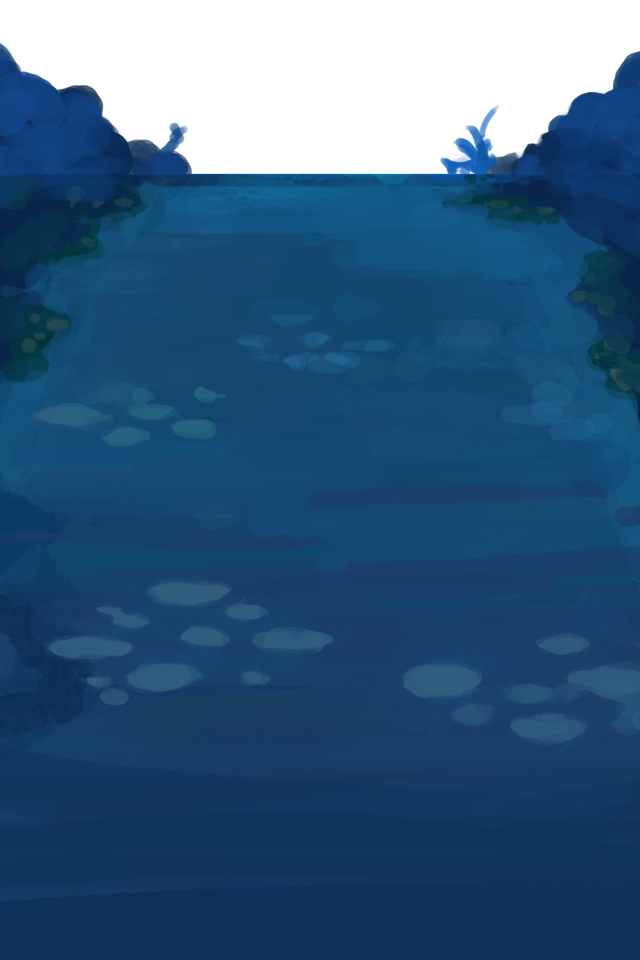
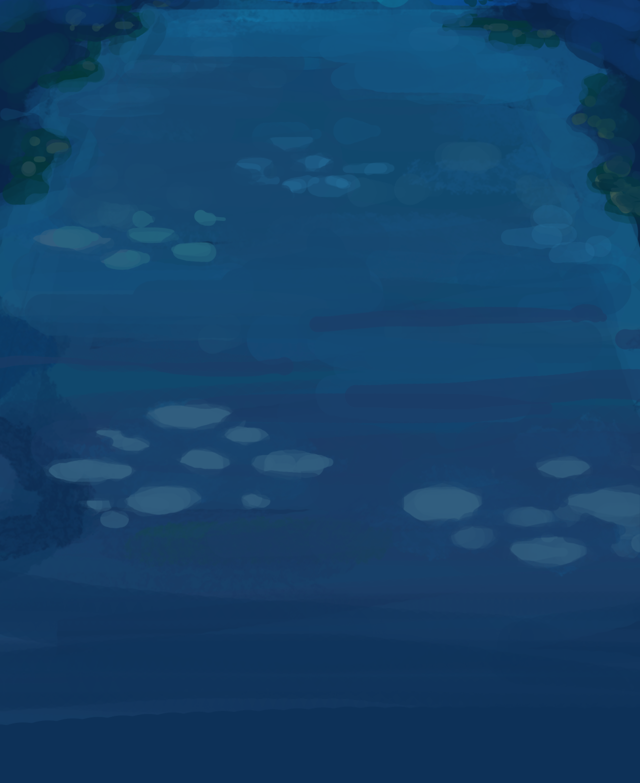
Add moon light effect.

diff --git a/Assets/Scripts/moonMover.cs b/Assets/Scripts/moonMover.cs
@@ -4,17 +4,69 @@ using System.Collections;
 public class moonMover : MonoBehaviour {
 	public float endPosY;
 	public float speed;
+	public float startPosY;
+	public float moonLight, moonLightBack, envLight;
+	public float startWait;
+	public GameObject sceneFar;
+	public GameObject char_0;
+
+	private bool startSpawn = false;
+	private float spawnTime;
+
 	// Use this for initialization
 	void Start () {
-	
+		Vector3 pos = transform.position;
+		pos.y = startPosY;
+		transform.position = pos;
+		spawnTime = (endPosY - startPosY) / speed;
+		Debug.Log(spawnTime);
+		StartCoroutine (SpawnMoon());
+	}
+
+	IEnumerator SpawnMoon ()
+	{
+		yield return new WaitForSeconds (startWait);
+		 
+		startSpawn = true;
+
+		yield return null;
 	}
 	
 	// Update is called once per frame
 	void Update () {
-		if (transform.position.y < endPosY) {
-			Vector3 newPos = transform.position;
-			newPos.y += speed * Time.deltaTime;
-			transform.position = newPos;
+		if (startSpawn)
+		{
+			if (transform.position.y >= endPosY) {
+				startSpawn = false;
+			} else {
+				Vector3 newPos = transform.position;
+				newPos.y += speed * Time.deltaTime;
+				transform.position = newPos;
+				float intensityPerStep = moonLightBack / spawnTime;
+				float opcacityPerStep = 255.0f / spawnTime;
+				float changeRate = moonLight / moonLightBack;
+				float changeRate2 = moonLightBack / envLight;
+				GameObject ml = GameObject.FindGameObjectWithTag("moonlight");
+				GameObject mlb = GameObject.FindGameObjectWithTag("moonlightback");
+				GameObject envl = GameObject.FindGameObjectWithTag("envLight");
+				if (ml.light.intensity < moonLight) {
+					ml.light.intensity += intensityPerStep * Time.deltaTime * changeRate;
+				}
+				if (mlb.light.intensity < moonLightBack) {
+					mlb.light.intensity += intensityPerStep * Time.deltaTime;
+				}
+				if (envl.light.intensity < envLight) {
+					envl.light.intensity += intensityPerStep * Time.deltaTime / changeRate2 ;
+				}
+				SpriteRenderer sp = sceneFar.GetComponent<SpriteRenderer>();
+				Color newColor =  sp.color;
+				newColor.a += (1.0f/255.0f)*opcacityPerStep * Time.deltaTime;
+				Debug.Log(newColor.a);
+				sp.color = newColor;
+
+				sp = char_0.GetComponent<SpriteRenderer>();
+				sp.color = newColor;
+			}
 		}
 	}
 }

diff --git a/Assets/Scripts/gameController.cs b/Assets/Scripts/gameController.cs
@@ -11,7 +11,7 @@ public class gameController : MonoBehaviour {
 	
 	void Start ()
 	{
-		StartCoroutine (SpawnWaves ());
+		//StartCoroutine (SpawnWaves ());
 	}
 	
 	IEnumerator SpawnWaves ()
